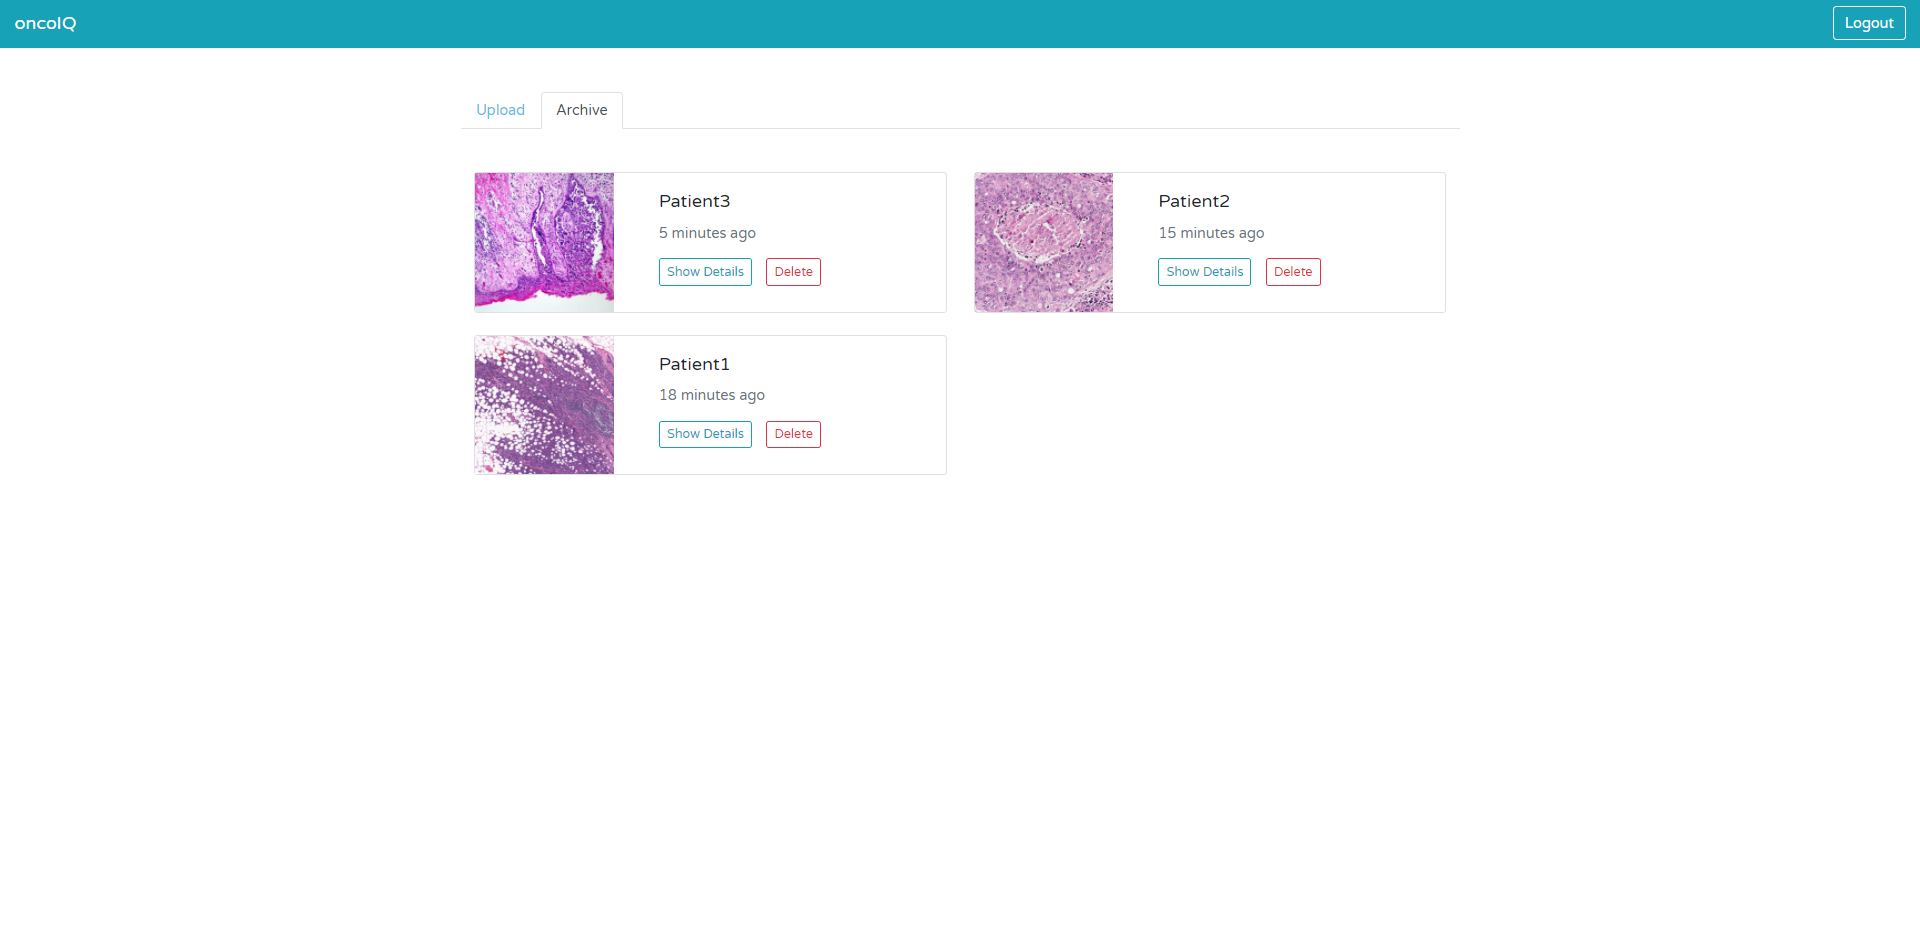
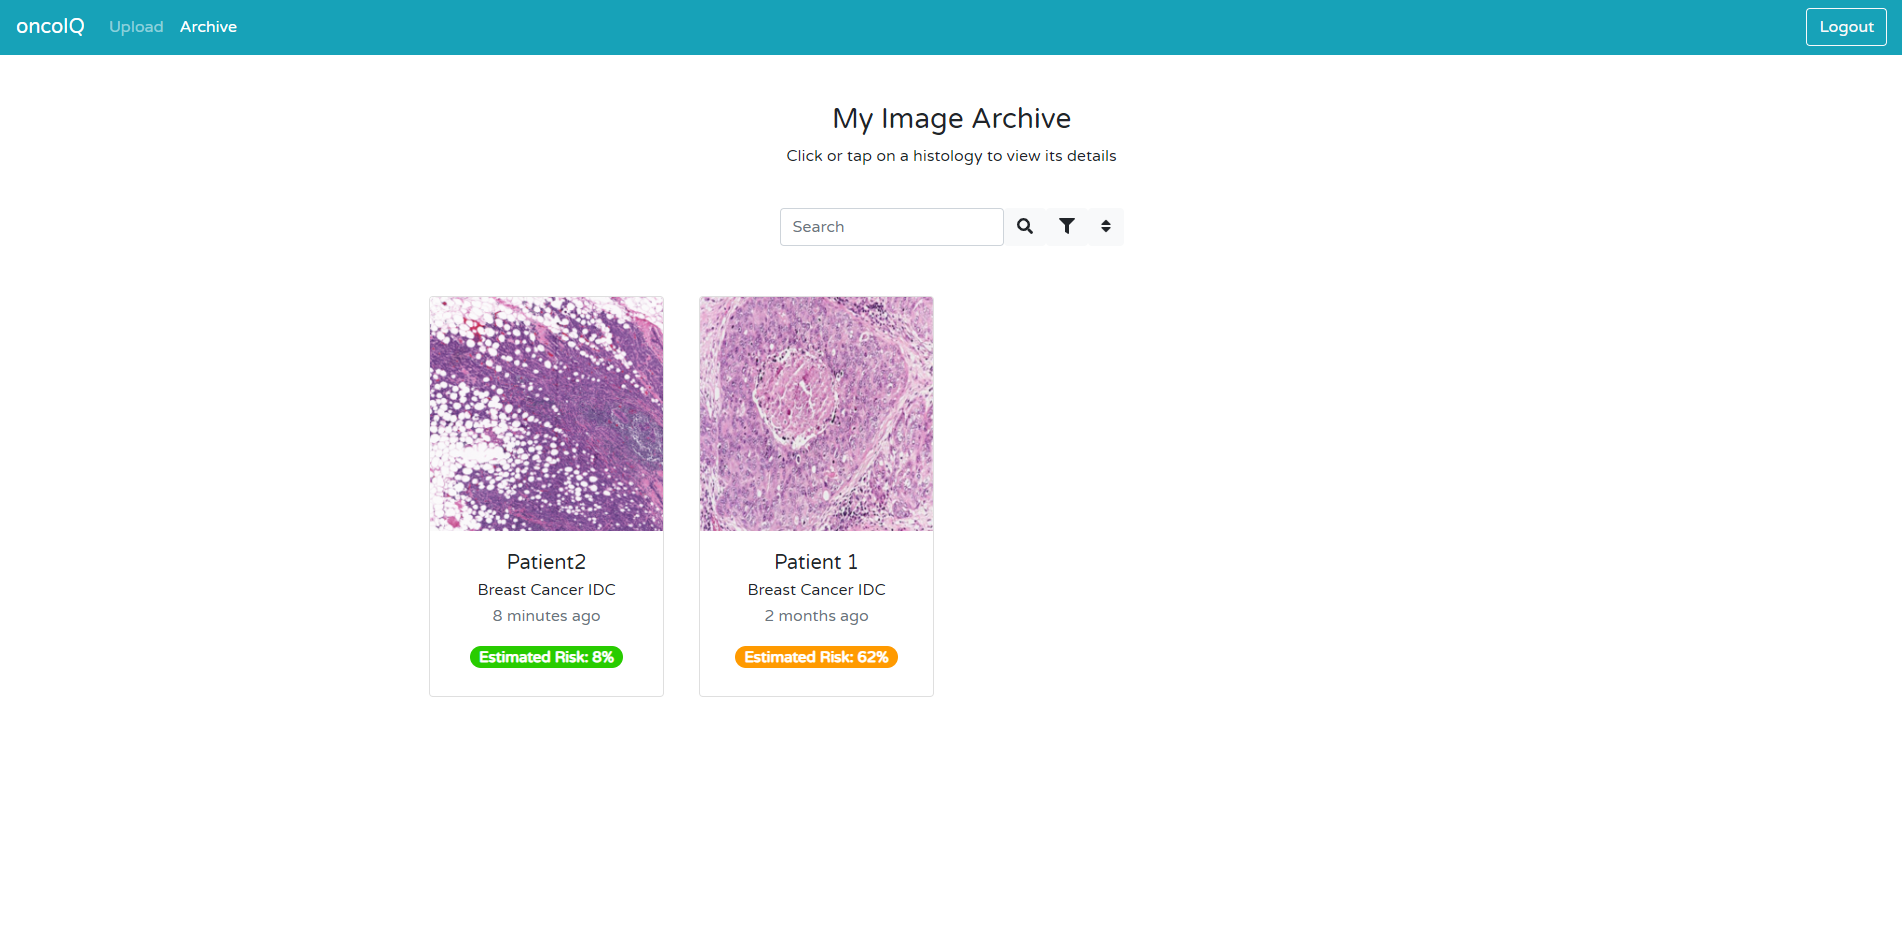
Fixed demo updated screenshots

diff --git a/src/components/Demo.js b/src/components/Demo.js
@@ -1,34 +1,7 @@
 import React, { useState } from 'react'
 import {Badge} from 'react-bootstrap';
-import Tile from './Tile';
-import TileGrid from "./TileGrid";
 
 export default function Demo() {
-    const tiles = [{id: "1HLxCP1mnXdqBONtuHq7psAb9xHIG2I1S", risk_level: 0.5153807997703552},
-        {id: "1UBFSqVpVl65Gd_1PP_2b1TUpL6RaCCKS", risk_level: 0.38082003593444824},
-        {id: "1uGj-JPkfvjYgOwFW1QH1sfh3ECKLKSJv", risk_level: 0.5654041767120361},
-        {id: "1-ScOpkPsZ3zA4URNLcSI-AIHu0uxUcm6", risk_level: 0.4352198541164398},
-        {id: "1g2dvgDoY7aTbHebmdRx0K_N9NSHwrCe5", risk_level: 0.15558315813541412},
-        {id: "1LcVz9eQfTP2UfCJM-lfAFGxROnlnCJls", risk_level: 0.6589469313621521},
-        {id: "1y0NqtFPkGF-BHCrp-pYfAZnTzpYJFcp7", risk_level: 0.7139288187026978},
-        {id: "1lSY_oR5c1V6cYyi1EQT4oNrgsgm327D_", risk_level: 0.8020737171173096},
-        {id: "1nqhoS9ZgccULWoByKAThnlwtd7n5hsTO", risk_level: 0.8452499508857727},
-        {id: "1_ScvoquDFF-ZRXA9ohBFl4pds_Bl7Hsd", risk_level: 0.6028939485549927},
-        {id: "1pb-7-WorNdnxuESDNZdknFV17S9TR3KC", risk_level: 0.33209022879600525},
-        {id: "1Qx9JoMDOt98-mdA-Y-s75AqvIMFCE7Gv", risk_level: 0.6751946806907654},
-        {id: "156y2cE9P0Z7Ug0Tbrw5_St29IH1oyrDo", risk_level: 0.7519523501396179},
-        {id: "1stE3dLADnBG2355vlioCanFQJQ8ws56G", risk_level: 0.7884353995323181},
-        {id: "1shYp104xlQv3qT0OdDFGMiGxk1apivjB", risk_level: 0.5601320862770081},
-        {id: "1VERxFUXsfF0o7J56ql3cpqb7N-WS9typ", risk_level: 0.19635586440563202},
-        {id: "1Y-G8gg6msa0dfzJDz_wtneHBMYlyMc_J", risk_level: 0.4808307886123657},
-        {id: "1Vm-lnkj-h_biHF3aNFrAi-hgAOdkU1VT", risk_level: 0.860715389251709},
-        {id: "14QO5iR5k5tXpiFVY94mvUKt-qq6YD04Z", risk_level: 0.8626291751861572},
-        {id: "1hkWtdV6CErdxuNK7ZZ-p2qNAwJfMPdg5", risk_level: 0.5128795504570007},
-        {id: "1Q9HG6zzQnHvhZsyeY-8i2It2IdfhZajU", risk_level: 0.34555795788764954},
-        {id: "1u7l-tXwKfhbAQa30aJgZBFusXdEP9A7J", risk_level: 0.8157142400741577},
-        {id: "1dSHvgbjQlr6UmXv1c9hrVaVMneY8D6M9", risk_level: 0.8443787097930908},
-        {id: "1L-V5PxBhqTAvh5jXZ9Em1dJfra29DnMs", risk_level: 0.7808331251144409},
-        {id: "1nNYwfh5NB7453iaz6otaANQdQi6pHZef", risk_level: 0.6796820163726807}]
 
     return (
         <div>
@@ -38,11 +11,8 @@ export default function Demo() {
             <h5 className="text-info font-weight-bold mt-5">2. Upload the scanned pathology slide</h5>
             <img src="/screenshots/upload.PNG" className="w-100"></img>
             <h5 className="text-info font-weight-bold mt-5">3. Get predictions</h5>
-            <p>The model will generate a heatmap to highlight high-risk areas. Hover your mouse over each tile to see the individual risk level.</p>
-            <h5><Badge pill variant="danger">Overall Risk: 61%</Badge></h5>
-            <TileGrid
-                tiles={tiles}
-            />
+            <p>The model will calculate the overall risk level and generate a heatmap to highlight high-risk areas. Hover your mouse over each tile to see the individual risk level.</p>
+            <img src="/screenshots/result.PNG" className="w-100"></img>
             <h5 className="text-info font-weight-bold mt-5">The Archive</h5>
             <p>Review saved uploads and predictions</p>
             <img src="/screenshots/archive.PNG" className="w-100"></img>
